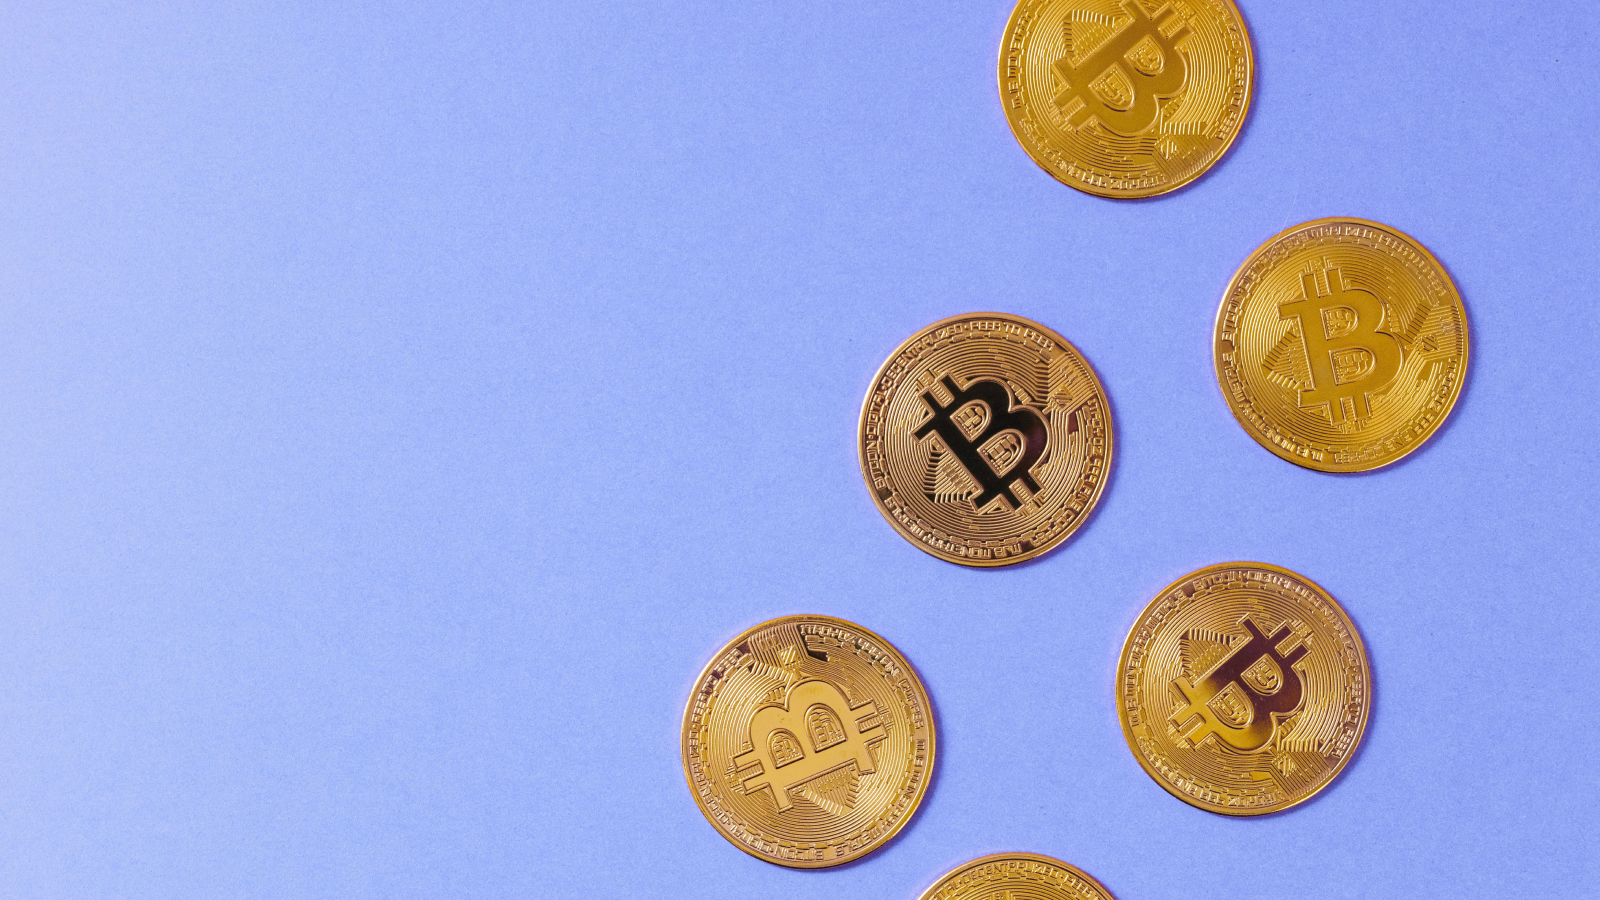
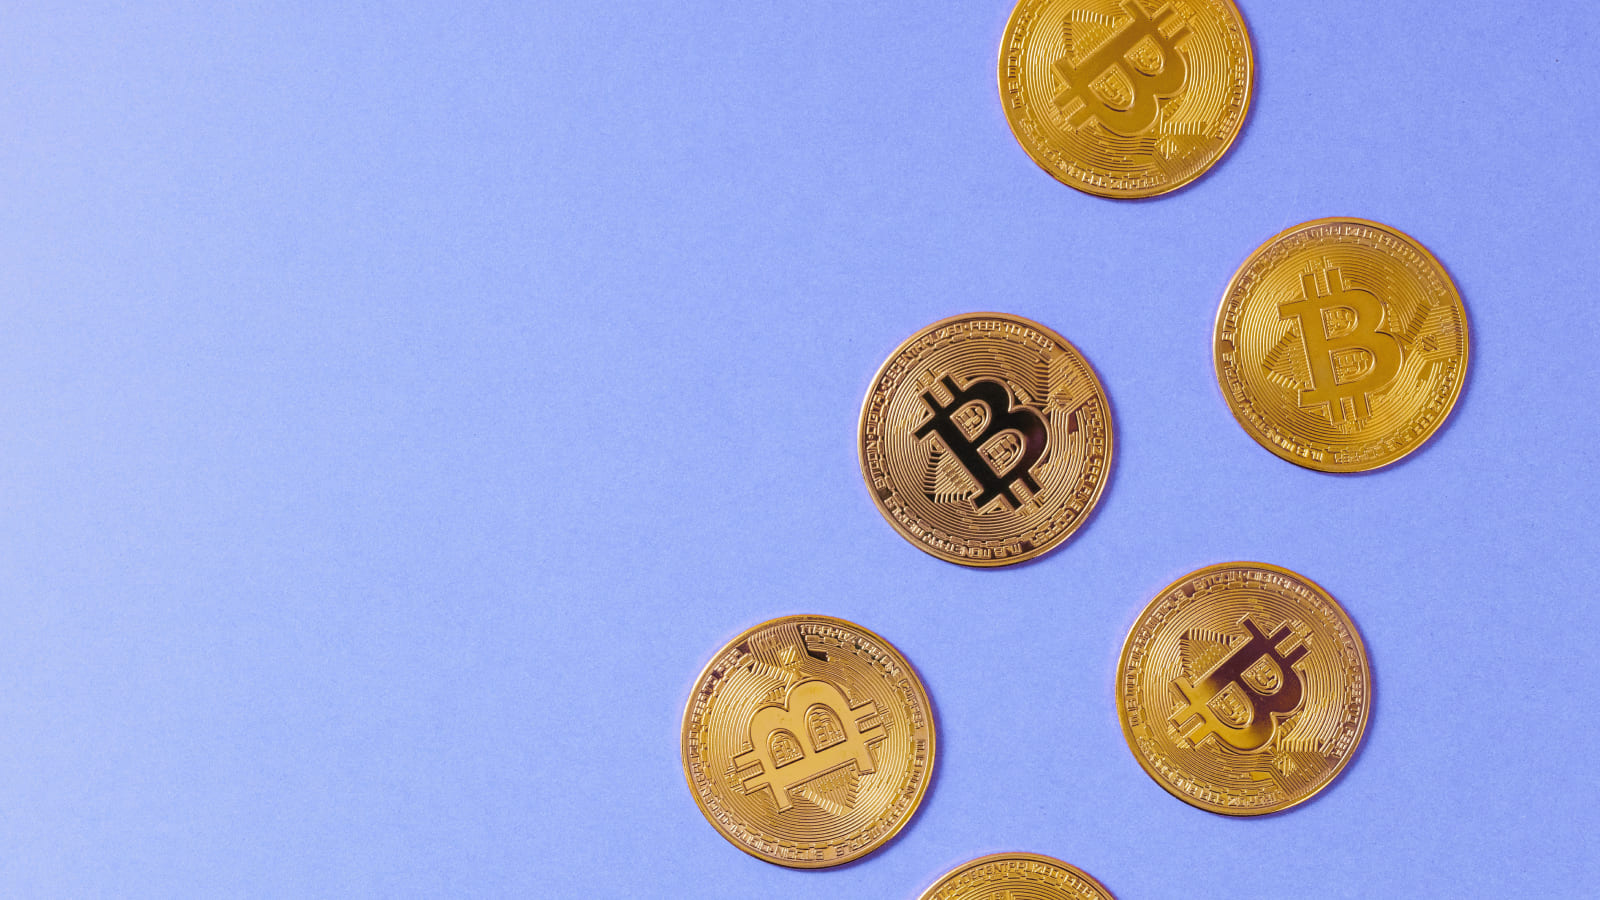
changed some view of advantages and also compressed photos

diff --git a/src/components/Advantages/Advantages.tsx b/src/components/Advantages/Advantages.tsx
@@ -3,8 +3,17 @@ import "./styles.scss";
 import { nanoid } from "nanoid";
 
 const groups = {
-  title: <>КОМАНДНАЯ РАБОТА В <span className="text-blue"> ГРУППАХ</span></>,
-  description: <>Наш опыт показывает, что именно за счет групповой&nbsp;работы быстрее достигаются высокие результаты.</>,
+  title: (
+    <>
+      КОМАНДНАЯ РАБОТА В <span className="color-blue"> ГРУППАХ</span>
+    </>
+  ),
+  description: (
+    <>
+      Наш опыт показывает, что именно за счет групповой&nbsp;работы быстрее
+      достигаются высокие результаты.
+    </>
+  ),
   parts: [
     {
       img: "first",
@@ -22,8 +31,18 @@ const groups = {
 };
 
 const curator = {
-  title: <>ЛИЧНЫЙ<span className="text-blue"> КУРАТОР</span></>,
-  description: <>У вас будет свой куратор. <br/> Больше, чем просто модератор или специалист тех. поддержки. Это ваш наставник, который будет помогать вам осваивать курс, поддерживать, направлять вас и радоваться вашим успехам!</>,
+  title: (
+    <>
+      ЛИЧНЫЙ<span className="color-blue"> КУРАТОР</span>
+    </>
+  ),
+  description: (
+    <>
+      У вас будет свой куратор. <br /> Больше, чем просто модератор или
+      специалист тех. поддержки. Это ваш наставник, который будет помогать вам
+      осваивать курс, поддерживать, направлять вас и радоваться вашим успехам!
+    </>
+  ),
   parts: [
     {
       img: "fourth",
@@ -48,40 +67,32 @@ const topics = [groups, curator];
 
 export default function Advantages() {
   return (
-    <section className="container advantages">
-      {topics.map((topic) => (
-        <div className="topic" key={nanoid()}>
-          <h2 className="title">{topic.title}</h2>
-          <h3 className="text-larger">{topic.description}</h3>
-          {topic.parts.map((part) => (
-            <>
-              <div className={`topic__img ${part.img}`}></div>
+    <>
+      <section className="container advantages" key={nanoid()}>
+        <h2 className="title">{groups.title}</h2>
+        <h3 className="text-larger">{groups.description}</h3>
+        <div className="advantages__list">
+          {groups.parts.map((part) => (
+            <div className="advantage advantage-col" key={nanoid()}>
+              <div className={`advantages__img ${part.img}`}></div>
               <p className="text text-regular">{part.text}</p>
-            </>
+            </div>
           ))}
         </div>
-      ))}
-      {/* <h2 className="title">
-        КОМАНДНАЯ РАБОТА В <span className="color-blue"> ГРУППАХ</span>
-      </h2>
-      <h3 className="text-larger">
-        Наш опыт показывает, что именно за счет групповой&nbsp;работы быстрее
-        достигаются высокие результаты.
-      </h3>
-      <ul className="groups__container">
-        <li className="groups__item">
-          <div className="item__img first"></div>
-          <p className="text"></p>
-        </li>
-        <li className="groups__item">
-          <div className="item__img second"></div>
-          <p className="text"></p>
-        </li>
-        <li className="groups__item">
-          <div className="item__img third"></div>
-          <p className="text"></p>
-        </li>
-      </ul> */}
-    </section>
+      </section>
+
+      <section className="container advantages" key={nanoid()}>
+        <h2 className="title">{curator.title}</h2>
+        <h3 className="text-larger">{curator.description}</h3>
+        <div className="advantages__list">
+          {curator.parts.map((part) => (
+            <div className="advantage advantage-row" key={nanoid()}>
+              <div className={`advantages__img ${part.img}`}></div>
+              <p className="text text-regular">{part.text}</p>
+            </div>
+          ))}
+        </div>
+      </section>
+    </>
   );
 }

diff --git a/src/components/Advantages/styles.scss b/src/components/Advantages/styles.scss
@@ -1,5 +1,75 @@
-.topic {
-    .text-larger {
-        max-width: 41rem;
+.advantages {
+  .text-larger {
+    max-width: 41rem;
+    margin-bottom: 2rem;
+  }
+  .advantages__list {
+    display: grid;
+    grid-template-columns: 1fr 1fr 1fr;
+    column-gap: 1rem;
+    row-gap: 2rem;
+
+
+    
+    .advantage {
+        display: flex;
+        justify-content: center;
+        align-items: center;
+        cursor: default;
+        padding: 2rem 1rem;
+        border-radius: 1rem;
+        transition: 0.1s cubic-bezier(.17,.67,.83,.67);
+
+        &.advantage-col {
+            flex-direction: column;
+            p.text {
+                  text-align: center;
+            }
+            .advantages__img {
+                width: 4rem;
+                height: 4rem;
+                margin-bottom: 1.5rem;
+            }
+        }
+        &.advantage-row {
+            flex-direction: row;
+        }
+
+        &:hover {
+            background: rgb(230, 230, 230);
+        }
+
+      .advantages__img {
+        width: 3rem;
+        height: 3rem;
+        background-position: center;
+        background-repeat: no-repeat;
+        background-size: contain;
+        flex-shrink: 0;
+        margin-right: 1.5rem;
+
+        &.first {
+          background-image: url("../../static/img/advantages/first.png");
+        }
+        &.second {
+          background-image: url("../../static/img/advantages/second.png");
+        }
+        &.third {
+          background-image: url("../../static/img/advantages/third.png");
+        }
+        &.fourth {
+          background-image: url("../../static/img/advantages/fourth.png");
+        }
+        &.fifth {
+          background-image: url("../../static/img/advantages/fifth.png");
+        }
+        &.sixth {
+          background-image: url("../../static/img/advantages/sixth.png");
+        }
+        &.seventh {
+          background-image: url("../../static/img/advantages/seventh.png");
+        }
+      }
     }
+  }
 }

diff --git a/src/components/WhatToLearn/styles.scss b/src/components/WhatToLearn/styles.scss
@@ -1,17 +1,20 @@
 .what-to-learn {
     .learn-list {
         column-count: 2;
-        
+
         .learn-item {
             .learn-item__check {
                 background-image: url('../../static/img/check.svg');
-                background-size: 0.75rem;
-                background-position: left left;
+                background-size: contain;
+                background-position-x: left;
+                background-position-y: 0.15rem;
                 background-repeat: no-repeat;
-                width: 0.75rem;
-                height: 0.75rem;
+                min-width: 0.9rem;
+                height: auto;
+                margin-right: 0.5rem;
             }
             display: flex;
+            margin-bottom: 1rem;
         }
     }
 }

diff --git a/src/components/Partners/Partners.tsx b/src/components/Partners/Partners.tsx
@@ -1,3 +1,4 @@
+import { nanoid } from "nanoid";
 import React from "react";
 import "./styles.scss";
 
@@ -42,7 +43,7 @@ export default function Partners() {
       </h2>
       <div className="partners__items">
         {partners.map((partner) => 
-          <a href={partner.link} target='_blank' rel="noreferrer">
+          <a href={partner.link} target='_blank' rel="noreferrer" key={nanoid()}>
             <div className={`partners__item ${partner.name}`}></div>
           </a>
         )}
